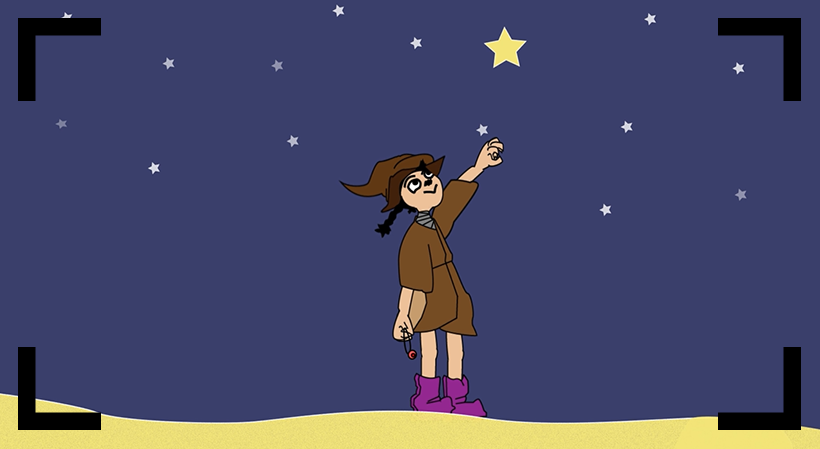
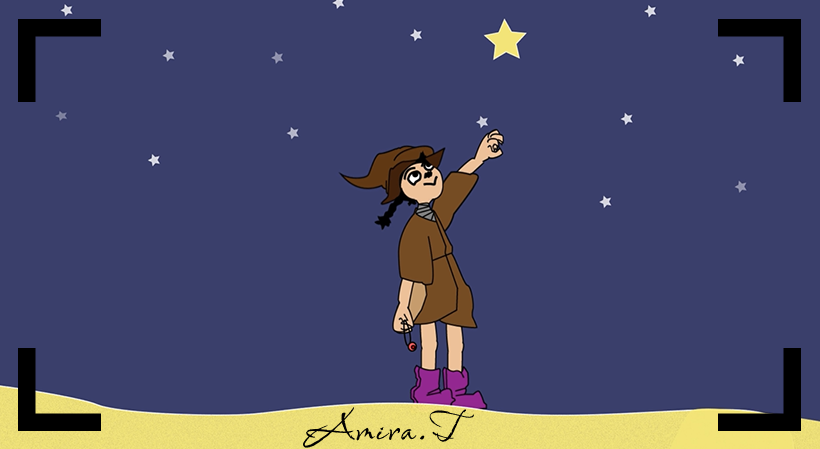
modifications-images-avec-signature-et-ajout-de-div-icon1-icon2-pour-iconsComp-en-version-mobile

diff --git a/portfolio-amira-tounekti/style.css b/portfolio-amira-tounekti/style.css
@@ -225,7 +225,7 @@ header {
     align-items: center;
     opacity: 0;
     background-color: var(--bleu-fonce);
-    box-shadow: inset 0 0 20px 25px var(--bleu-tres-fonce);
+    box-shadow: inset 0 0 29px 25px rgb(45, 74, 97, 0.6);
 }
 
 .photoDispo {
@@ -320,14 +320,14 @@ header {
 
 .competance {
     width: 50%;
-    height: 29%;
-    padding: 90px;
+    height: 20%;
+    padding: 20px;
     display: flex;
     flex-direction: column;
     align-items: center; 
     justify-content: flex-end;
     background-color: var(--bleu-claire);
-    box-shadow: inset 0 0 20px 25px var(--bleu-claire-fonce);
+    box-shadow: inset 0 0 25px 25px rgba(159, 171, 179, 0.4);
     opacity: 0;
 }
 
@@ -392,20 +392,32 @@ header {
 
 .iconsComp {
     position: relative;
-    width: 70%;
-    height: 20%;
-    margin-top: 50px;
-    display: grid;
-    grid-template-columns: repeat(5, 1fr); 
-    overflow: hidden;
+    width: 80%;
+    height: 30%;
+    margin-top: 10px;
+    display: flex;
+    justify-content: center;
+    align-items: center;
+    left: 27px;
+}
+
+.icon1, .icon2 {
+    display: flex;
+    flex-direction: row;
+    justify-content: center;
+    align-items: center;
+    gap: 15px; 
+    width: 196px; 
+    margin: 0;
 }
 
 .icon {
-    position: relative;
-    width: 40%;
-    margin: 0 auto;
-    object-fit: fill;
+    max-width: 60px; 
+    height: auto;    
+    display: block;
+    margin: 0;
 }
+
 
 footer {
     position: relative; 
@@ -504,15 +516,19 @@ h4 {
         height: 25%;
         padding: 20px;
     }
+
+    .photoDispo {
+        width: 30%;
+        height: 70%;
+    }
     
     .photo {
         width: 100%;
         height: 70%;
-        margin-top: 20px;
     }
 
     .aPropos {
-        width: 60%;
+        width: 40%;
         font-size: 1em;
     }
 
@@ -521,11 +537,28 @@ h4 {
         top: 0;        
     } 
 
+    .competance {
+        width: 70%;
+        height: 20%;
+    }
+
+    .carousel {
+        position: relative;
+        display: flex;
+        align-items: center;
+        justify-content: center;
+        gap: 15px;
+        margin-bottom: 20px;
+        width: 550px;
+        height: 260px;
+    }
+
+
 }
 
 /* La version mobile du portfolio */
 
-@media screen and (max-width: 834px) { 
+@media screen and (max-width: 900px) { 
 
     .dessin {
         width: 80%;
@@ -535,13 +568,6 @@ h4 {
         width: 100%;
         height: 200vh;
         background-image: url('./img/2ieme-section-mobile.svg');
-        background-repeat: no-repeat;
-        background-position: top;
-        background-size: cover;
-        z-index: 2; /* Passe au-dessus de decoPresentation */
-        display: flex;
-        justify-content: center;
-        align-items: center;
     }
 
     .presentation {
@@ -551,25 +577,12 @@ h4 {
         flex-direction: column-reverse;
         justify-content: center;
         align-items: center;
-        opacity: 0;
-        background-color: var(--bleu-fonce);
-        box-shadow: inset 0 0 20px 25px var(--bleu-tres-fonce);
     }    
 
     .troisiemeSection {
-        position: relative;
         width: 100%;
         height: 260vh;
-        margin: 0;
         background-image: url('./img/3ieme-section-mobile.svg');
-        background-repeat: no-repeat;
-        background-position: top;
-        background-size: cover;
-        display: flex;
-        flex-direction: row;
-        align-items: center; 
-        justify-content: center;
-        z-index: 4; /* Passe au-dessus de disponibilite */
     }
 
     .photoDispo {
@@ -583,14 +596,8 @@ h4 {
     
     /*Il y a dedans une image temporaire en attendant la photo professionnelle.*/
     .photo {
-        position: relative;
         width: 80%;
-        height: 90%;
-        background-image: url('./img/photo.png');
-        background-position: center;
-        background-size: cover;
-        background-repeat: no-repeat;
-        border: inset 10px var(--bleu-claire);
+        height: 60%;
     }
 
     .bouton {
@@ -604,7 +611,7 @@ h4 {
         justify-content: center;
         align-items: flex-start;
         font-family: "ougkeh", sans-serif;
-        font-size: 0.6em;
+        font-size: 0.9em;
     }
       .menuSandwitch {
         width: 40px;
@@ -628,8 +635,8 @@ h4 {
 
     .competance {
         width: 100%;
-        height: 20%;
-        padding: 90px;
+        height: 25%;
+        padding: 50px;
         display: flex;
         flex-direction: column;
         align-items: center; 
@@ -662,18 +669,25 @@ h4 {
         background-position: center;
     }
 
+
     .iconsComp {
-        position: relative;
-        width: 100%;
-        margin: 0 auto;
-        object-fit: fill;
-        margin-top: 20px;
+        margin-top: 10px;
+        display: flex;
+        flex-direction: column;
+        justify-content: center;
+        align-items: center;
+        left: 2px;
     }
-    
 
+    .icon1, .icon2 {
+        gap: 20px; 
+        width: 30%; 
+    }
+
+    .icon {
+        max-width: 60px; 
+    }
  }
-
-
 
  /* -----------------------------------------------------------------------------------------------------------------------------------------------------------------------------
 ----------------------------------------------------------------------------------------------------------------------------------------------------------------------------------

diff --git a/portfolio-amira-tounekti/accueil.html b/portfolio-amira-tounekti/accueil.html
@@ -102,11 +102,15 @@
                 </div>
 
                 <div class="iconsComp">
-                    <img src="./img/icon/adobe_illustrator_icon.png" class="icon illustrator" alt="illustrator">
-                    <img src="./img/icon/html_icon.png" class="icon html" alt="html">
-                    <img src="./img/icon/css_icon.png" class="icon css" alt="css">
-                    <img src="./img/icon/photoshop_icon.png" class="icon photoshop" alt="photoshop">
-                    <img src="./img/icon/davinci_resolve_icon.png" class="icon davinci" alt="davinci">
+                    <div class="icon1">
+                        <img src="./img/icon/adobe_illustrator_icon.png" class="icon illustrator" alt="illustrator">
+                        <img src="./img/icon/html_icon.png" class="icon html" alt="html">
+                        <img src="./img/icon/css_icon.png" class="icon css" alt="css">
+                    </div>
+                    <div class="icon2">
+                        <img src="./img/icon/photoshop_icon.png" class="icon photoshop" alt="photoshop">
+                        <img src="./img/icon/davinci_resolve_icon.png" class="icon davinci" alt="davinci">
+                    </div>
                 </div>
             </div>
 
